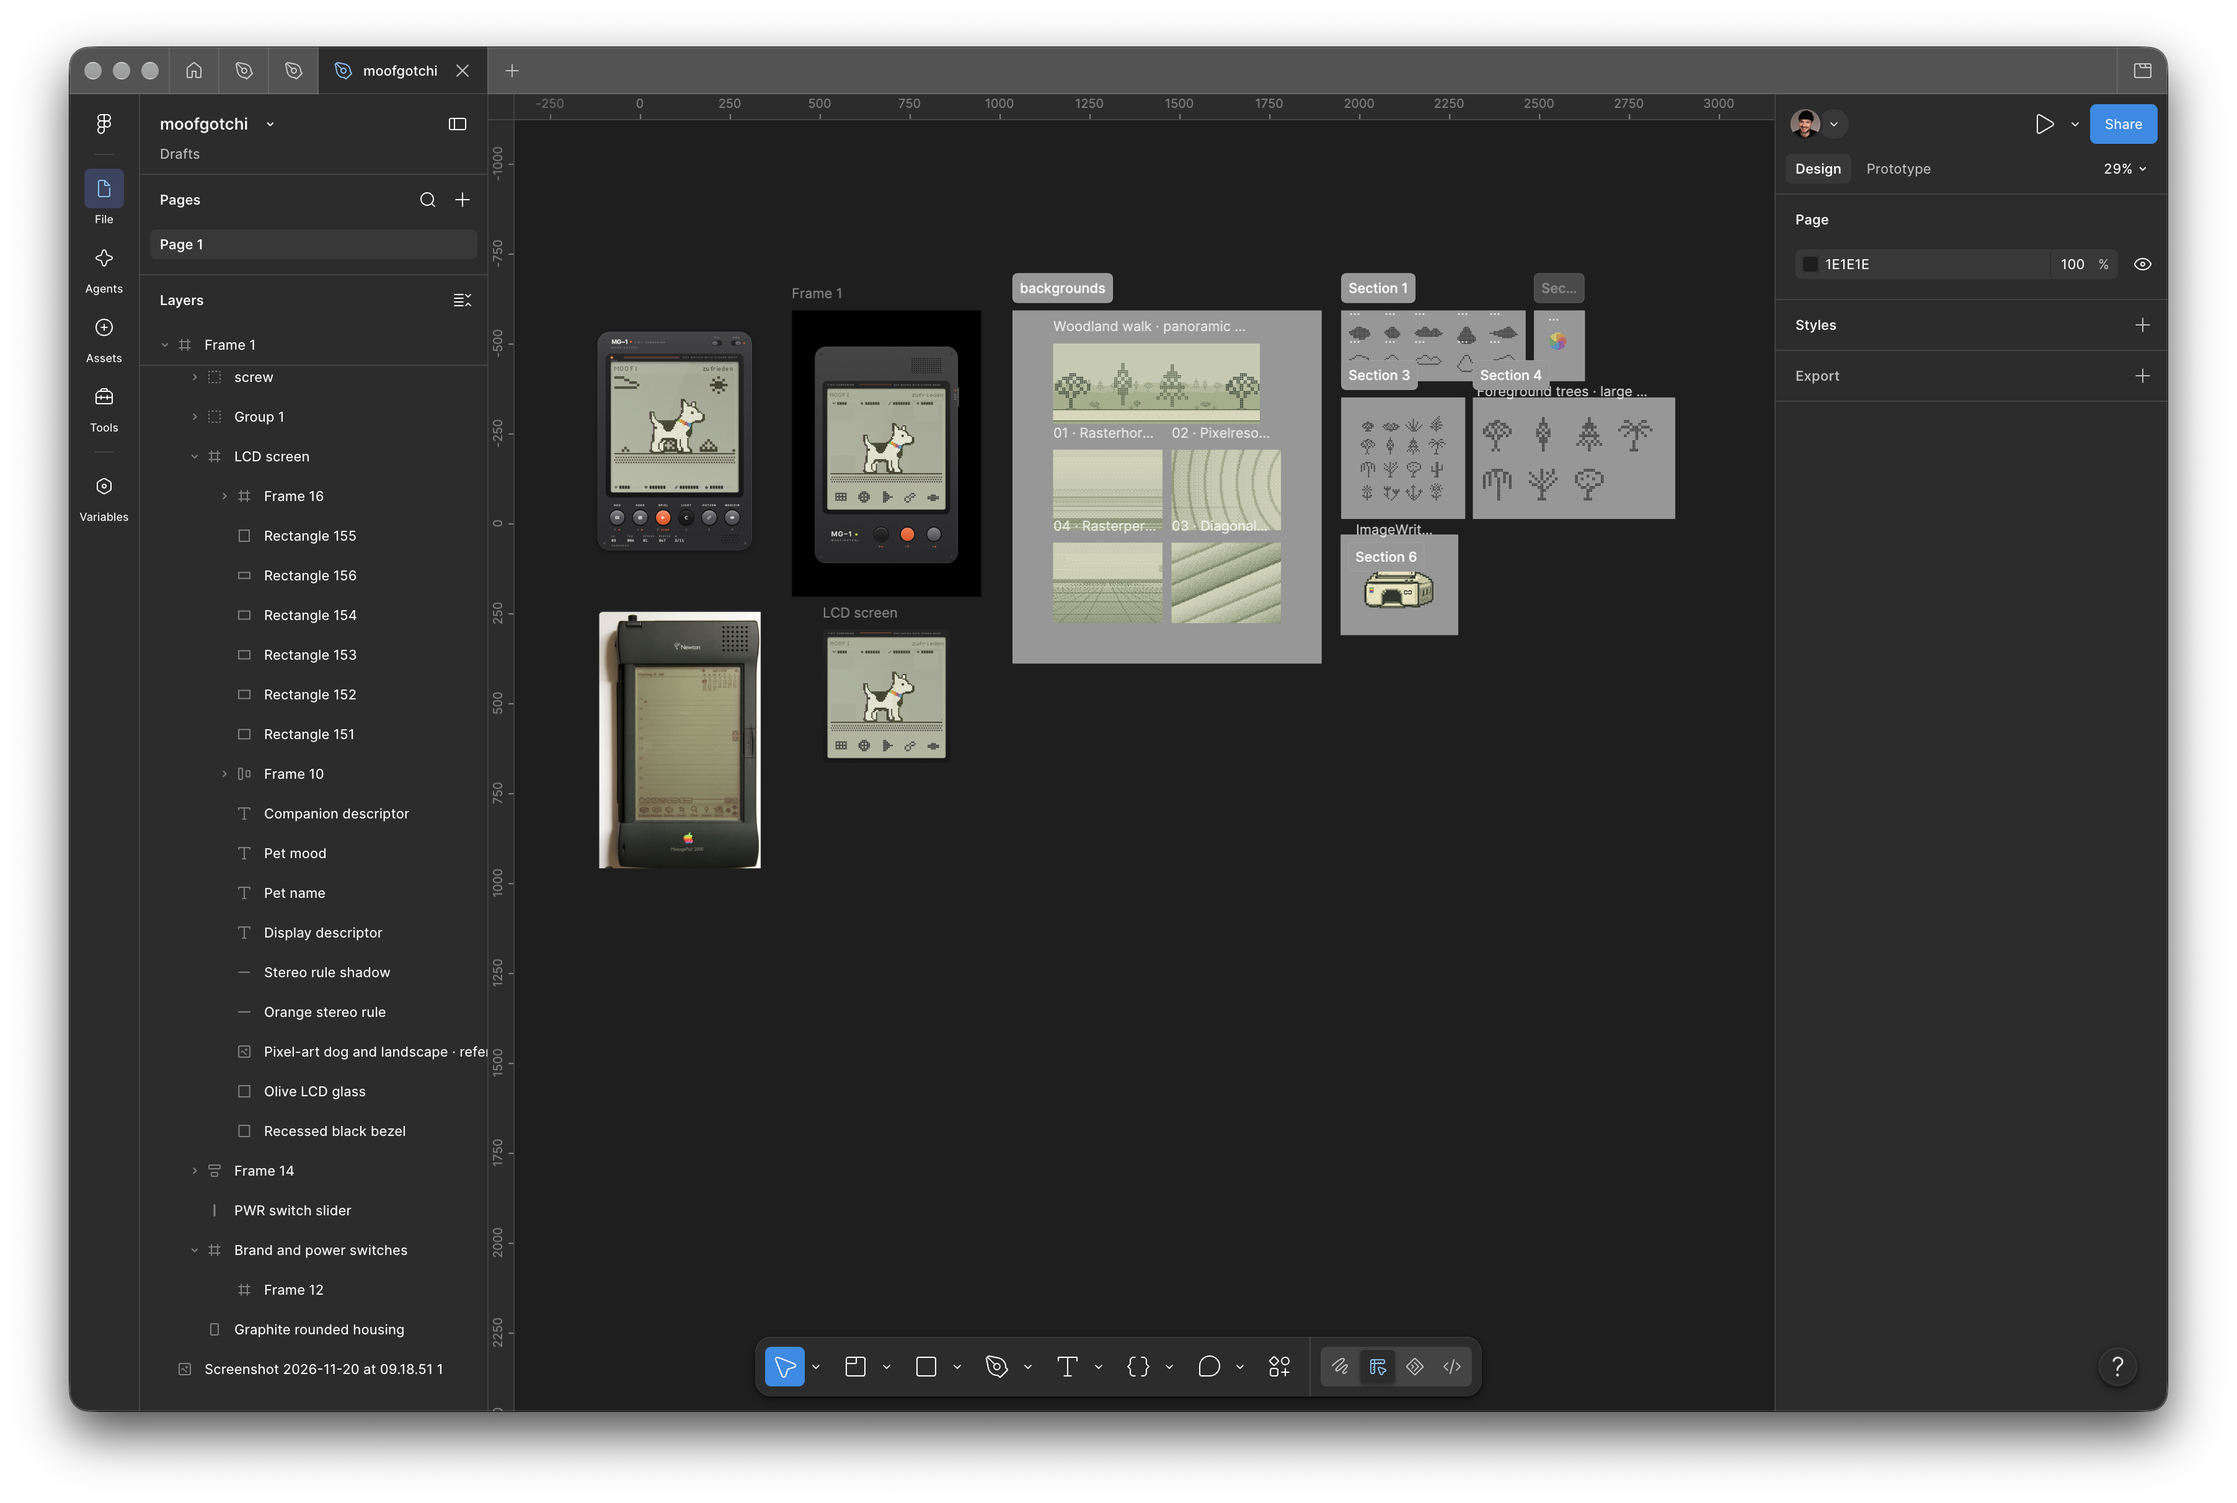
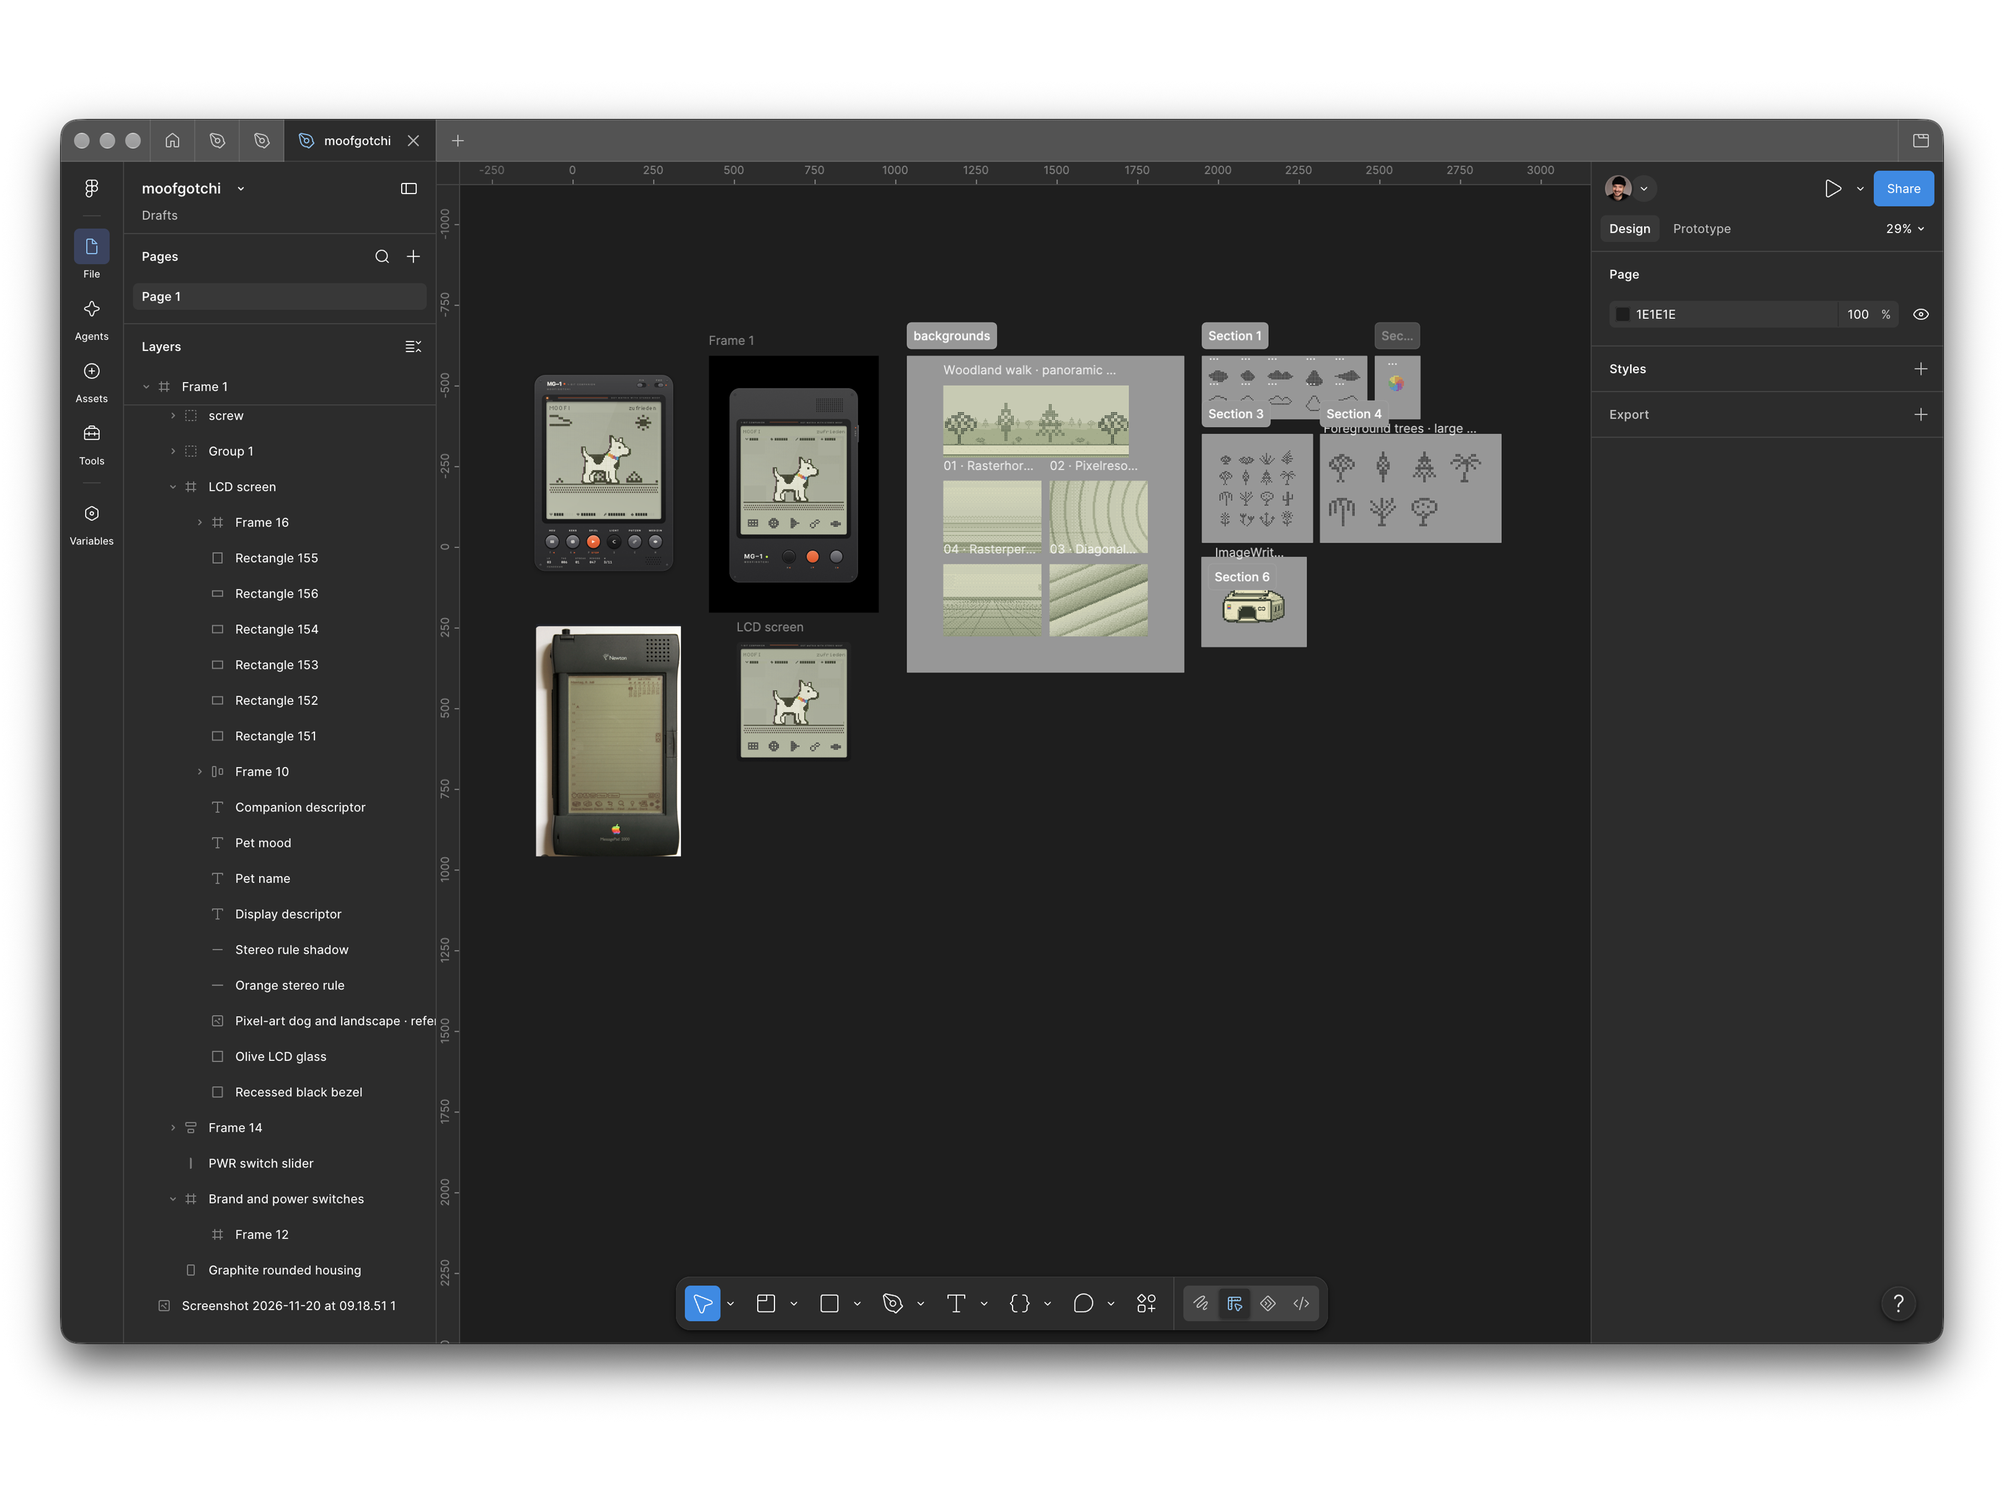
Moofigotchi: calmer image layout, light-mode screens, text revisions
- New image blocks: imageScreens (uncropped screens, 2 or 3 across) and
  imageWide (full width, own proportions)
- Hero with heroFit: natural aligns left with the text
- Image placeholder gradient only behind blocks without an image
- Moofigotchi: updated sketches and Figma images, tidier Figma section,
  final light-mode screens, model tied to the project, delegated/kept summary
- <ins>/<del> styles for marking edit suggestions in drafts

diff --git a/.eleventy.js b/.eleventy.js
@@ -26,6 +26,9 @@ const SIZES = {
   pair: "(max-width: 560px) 100vw, 390px",
   trio: "(max-width: 560px) 100vw, 260px",
   posters: "(max-width: 720px) 50vw, 260px",
+  wide: "(max-width: 640px) 100vw, 780px",
+  "screens-2": "(max-width: 560px) 50vw, 390px",
+  "screens-3": "(max-width: 560px) 50vw, 260px",
 };
 
 function fileExists(relPath) {
@@ -120,6 +123,23 @@ module.exports = async function (eleventyConfig) {
   // images (posters, prints) in an uncropped grid: three across, two on phones
   eleventyConfig.addShortcode("imagePosters", function (...srcs) {
     return renderBlock("posters", srcs.map((src) => ({ src })));
+  });
+
+  // {% imageWide "pfad.png", "Bildunterschrift" %} — one image, full width,
+  // in its own proportions, uncropped (where imageSingle crops to 16:9)
+  eleventyConfig.addShortcode("imageWide", function (src, caption) {
+    return renderBlock("wide", [{ src, alt: caption }], caption);
+  });
+
+  // {% imageScreens "a.png", "b.png", …, "Bildunterschrift" %} — screens of
+  // the same format (app or device screenshots) in an uncropped grid: two
+  // or four images two across, otherwise three across (two on phones). A
+  // last argument that isn't an image file is the caption (optional).
+  eleventyConfig.addShortcode("imageScreens", function (...args) {
+    const isImage = (s) => /\.(png|jpe?g|webp|gif|avif)$/i.test(s);
+    const caption = args.length && !isImage(args[args.length - 1]) ? args.pop() : "";
+    const variant = args.length === 2 || args.length === 4 ? "screens-2" : "screens-3";
+    return renderBlock(variant, args.map((src) => ({ src })), caption);
   });
 
   // Case-study facts: a list in the front matter, or a string split on

diff --git a/src/css/image-blocks.css b/src/css/image-blocks.css
@@ -35,6 +35,20 @@
 .image-block.posters .ph-grid{grid-template-columns:repeat(3, 1fr);}
 .image-block.posters .ph{aspect-ratio:210/297;}
 
+/* wide: full width, the image's own proportions, nothing cropped */
+.image-block.wide .ph{aspect-ratio:auto;}
+.image-block.wide .ph img{position:static; height:auto; display:block;}
+
+/* screens: same-format screenshots, uncropped, two or three across */
+.image-block.screens-2 .ph-grid{grid-template-columns:1fr 1fr; align-items:start;}
+.image-block.screens-3 .ph-grid{grid-template-columns:repeat(3, 1fr); align-items:start;}
+.image-block[class*="screens-"] .ph{aspect-ratio:auto;}
+.image-block[class*="screens-"] .ph img{position:static; height:auto; display:block;}
+
+/* the placeholder gradient only while there's no image, so it never shows
+   through an image's transparent edges or corners */
+.image-block .ph:has(img){background:none;}
+
 .image-block .ph-label{
   font-family:'JetBrains Mono', monospace;
   font-size:11px;
@@ -63,4 +77,5 @@
   .image-block.pair .ph-grid,
   .image-block.trio .ph-grid{grid-template-columns:1fr;}
   .image-block.posters .ph-grid{grid-template-columns:1fr 1fr;}
+  .image-block.screens-3 .ph-grid{grid-template-columns:1fr 1fr;}
 }

diff --git a/src/css/casestudy.css b/src/css/casestudy.css
@@ -76,8 +76,9 @@
 .case .hero-image span{display:block; width:100%; height:100%;}
 .case .hero-image img{width:100%; height:100%; object-fit:cover; object-position:center; display:block;}
 /* heroFit: natural: the image's own proportions, nothing cropped; capped
-   narrower so a tall image doesn't fill the whole screen */
-.case .hero-image.natural{aspect-ratio:auto; width:min(calc(100% - var(--pad) * 2), 480px);}
+   narrower so a tall image doesn't fill the whole screen, and left-aligned
+   with the text */
+.case .hero-image.natural{aspect-ratio:auto; width:min(calc(100% - var(--pad) * 2), 480px); margin:40px var(--pad) 0;}
 .case .hero-image.natural img{height:auto;}
 
 /* ---- free-form markdown body: any number of ## sections, each h2 with a
@@ -150,3 +151,7 @@
 @media (max-width: 640px){
   .lightbox{padding-left:0; padding-right:0;}
 }
+
+/* edit suggestions in a draft: <ins> new text, <del> text to cut */
+.case .case-body ins{background:var(--lime); color:#111; text-decoration:none; padding:1px 4px; box-decoration-break:clone; -webkit-box-decoration-break:clone;}
+.case .case-body del{opacity:0.45;}

diff --git a/src/case-studies/moofigotchi.md b/src/case-studies/moofigotchi.md
@@ -15,11 +15,7 @@ heroFit: natural                 # show the hero uncropped
 heroImageAlt: The Moofigotchi device, a dark handheld with an olive LCD screen showing Moof the dogcow in pixel art in front of a wavy background
 ---
 
-In this short case study I wanted to go through a creative process, focusing on how and when I use generative AI as a tool, and to sum up a kind of flow that makes it a conscious use of the tool. Here are my key takeaways. To make comparison easier, I will refer to the process without AI as the "non-AI process".
-
-## Heads-up: Your Idea
-
-Before you start, you should already have the clearest possible idea of what you want. This can be as detailed or as low-resolution as you like. In a non-AI process, this step is exactly the same.
+In this short case study I wanted to go through a creative process, focusing on how and when I use generative AI as a tool, and to sum up a kind of flow that makes it a conscious use of the tool. Here are my key takeaways. To make comparison easier, I will refer to the process without AI as the "non-AI process". One thing stays the same either way: before you start, you should already have an idea of what you want, however detailed or low-resolution it is.
 
 ## Three Basic Steps in AI-Based Creation
 
@@ -27,7 +23,7 @@ Before you start, you should already have the clearest possible idea of what you
 
 ### 1. Generate: Bring Something to the Table
 
-At this point it doesn't matter how detailed it is. In the non-AI process you would also use either a sketch or a mood board, which mostly consists of quite defined images as well.
+At this point it doesn't matter how detailed it is. In the non-AI process you would also use either a sketch or a mood board, which mostly consists of defined images as well.
 
 ### 2. Differentiation Point
 
@@ -41,17 +37,17 @@ Similar to the Double Diamond process, there will be a phase of exploration foll
 
 ## The Example Project
 
-I wanted to create a small project to explore the process. The vision was quite clear: I wanted to create a Tamagotchi-style app featuring the beloved Moof, the dogcow.
+I wanted to create a small project to explore the process. The vision was clear: I wanted to create a Tamagotchi-style app featuring the beloved Moof, the dogcow. Looking back, the project ran through the three steps twice, just like in the graphic above: the first cycle produced a quick terminal sketch, the second turned it into the actual app, with the adaptation phase happening in Figma.
 
 ### First Concept with a Terminal Sketch
 
-It can be fine to start with a first prompt of just a few words, also to get clear yourself about what you want to do. It doesn't have to be a mega-prompt with everything in it. In my case, I was lucky enough to get a Python version right in the client. Afterwards it occurred to me that this was an efficient way to draft the idea first. Even though in this case it seems more easily applicable to a Tamagotchi-like, low-res scenario, I imagine such simple software sketches can be quite useful in the first phase as a sort of wireframe prototype.
+It can be fine to start with a first prompt of just a few words, also to get clear yourself about what you want to do. It doesn't have to be a mega-prompt with everything in it. In my case, I was lucky enough to get a Python version right in the client. Afterwards it occurred to me that this was an efficient way to draft the idea first. Even though in this case it seems more easily applicable to a Tamagotchi-like, low-res scenario, I imagine such simple software sketches can be useful in the first phase as a sort of wireframe prototype.
 
 {% imagePair "moofgotchi/First-Sketch.png", "moofgotchi/Second-Sketch.png" %}
 
 ### A Finer Graphic Version
 
-Now it was time to move towards the intended app format. In my case I rolled the dice again to see how Claude would interpret my vision described in words. But at this point it drifted apart: the result did not match what I had imagined. I did one more rerun, describing specifically what the details should look like visually, but quickly realized I had reached a point where my direct manipulation was needed. This was where the adaptation phase I mentioned earlier in this article came in.
+Now it was time to move towards the intended app format. In my case I rolled the dice again to see how Claude would interpret my vision described in words. But at this point it drifted apart: the result did not match what I had imagined. What didn't fit was the overall style, the way things were shown on the display and the way Moof was drawn, and for each of these I had to name concrete references. I did one more rerun, describing specifically what the details should look like visually, but quickly realized I had reached a point where my direct manipulation was needed. This was where the adaptation phase I mentioned earlier in this article came in.
 
 {% imagePair "moofgotchi/01-home-light.png", "moofgotchi/02-home-dark.png" %}
 
@@ -59,26 +55,26 @@ Now it was time to move towards the intended app format. In my case I rolled the
 
 Now I took the result into Figma and started building it myself, manually drawing some assets I already had in mind, but augmenting them by generating alternate versions.
 
-{% imageNatural "moofgotchi/10-poops.png", "The last version from Claude before moving to Figma" %}
-
 {% imageTrio "moofgotchi/figma-work-1.png", "moofgotchi/figma-work-2.png", "moofgotchi/figma-work-3.png" %}
 
-{% imageSingle "moofgotchi/Figma.png", "The Figma file: device, LCD screen, backgrounds, clouds, trees and the printer" %}
+{% imageWide "moofgotchi/Figma.png", "The Figma file: LCD screen, backgrounds, clouds, trees and the printer-doghouse" %}
 
 I felt this step was a crucial one: to rework every detail of the design. *This way it started to feel more genuinely like a craft instead of just accepting a generated result.* Using both manual work and amplifying it with an agent helped me focus on the creative part, both conceptually and in fine visual detail work.
 
-By the way: I was quite impressed by how the Figma agent rebuilt the interface just by looking at a screenshot.
+{% imageScreens "moofgotchi/10-poops.png", "moofgotchi/Figma-agent-reproduction.png", "Left: the last version from Claude. Right: the Figma agent's reproduction of the interface, rebuilt just by looking at a screenshot. Quite impressive." %}
 
-{% imageNatural "moofgotchi/Figma-agent-reproduction.png", "The Figma agent's reproduction of the interface from a screenshot" %}
+Afterwards it occurred to me that I could have defined the logic of the game first, then worked out which assets would be necessary, and just asked for generic sketches or placeholders. In the Tamagotchi case the functionality was obvious: take care of a digital creature, with one or two little games in it. So here Claude of course copied the standard Tamagotchi logic and applied it to Moofigotchi. That way the classic catch-a-cookie game ended up in the program, which I did not like because it did not fit the overall story. So I changed it to either taking a walk and training your dog, or bouncing a ball.
 
-Afterwards it occurred to me that I could have defined the logic of the game first, then worked out which assets would be necessary, and just asked for generic sketches or placeholders. In the Tamagotchi case the functionality was quite obvious: take care of a digital creature, with one or two little games in it. So here Claude of course copied the standard Tamagotchi logic and applied it to Moofigotchi. That way the classic catch-a-cookie game ended up in the program, which I did not like because it did not fit the overall story. So I changed it to either taking a walk and training your dog, or bouncing a ball.
-
-{% imagePair "moofgotchi/10-ball-game.png", "moofgotchi/17-walk-sit.png" %}
+{% imageScreens "moofgotchi/v4-mg1/10-ball-game.png", "moofgotchi/v4-mg1/17-walk-sit.png", "Bouncing a ball and training on a walk" %}
 
 ## What to Keep and What to Delegate?
 
 I noticed in this instance that there were parts I was happy for Claude to take over, as they would have needed a lot of attention and work up front, like all the phrases Moof communicates with you. Still, I got really excited to dedicate some time to this very detail: what the dogcow would say to you. This is just one of many examples where I realized two things. First: the more dedication I gave to certain details, the more the result felt like my own creation. And second: having the result already working and mostly built in front of me helped me immensely to dedicate my energy to the creative part. As I worked out the details, the project took more and more shape, and new ideas even came to me along the way, showing me that there was still a lot of creative work left for me.
 
-{% imageSingle "moofgotchi/overview.png", "Overview of the final screens" %}
+{% imageScreens "moofgotchi/v4-mg1/02-home-light.png", "moofgotchi/v4-mg1/11-ball-game-later.png", "moofgotchi/v4-mg1/16-walk-event-later.png", "moofgotchi/v4-mg1/33-night-sleeping-light.png", "The final screens in light mode: home, bouncing the ball, an event on the walk and sleeping in the printer" %}
+
+**What I delegated:** the first drafts, the code and the game logic, a first set of phrases for Moof, alternate versions of my assets and rebuilding the interface in Figma.
+
+**What I kept:** the vision, and the UI concept: instead of many buttons, just three, with the functions chosen on the display. I rebuilt the interface and changed and adjusted its details, drew pixel art like the trees and clouds myself and redrew parts of the icons so they match visually. And finally: games that fit the story, and what Moof actually says to you.
 
 If you are interested in trying it out and maybe building on it yourself, you can get the Moofigotchi build on GitHub [here](https://github.com/outoffoffice/moofigotchi).

diff --git a/src/case-studies/_template.md b/src/case-studies/_template.md
@@ -49,3 +49,5 @@ Text in Markdown. **Bold**, *italic*, [links](https://…).
 {% imagePortrait "my-project/tall.png", "Caption" %}
 {% imageNatural "my-project/square.png", "Caption" %}
 {% imagePosters "my-project/01.png", "my-project/02.png", "my-project/03.png" %}
+{% imageWide "my-project/wide.png", "Caption" %}
+{% imageScreens "my-project/s1.png", "my-project/s2.png", "my-project/s3.png", "Caption (optional)" %}
